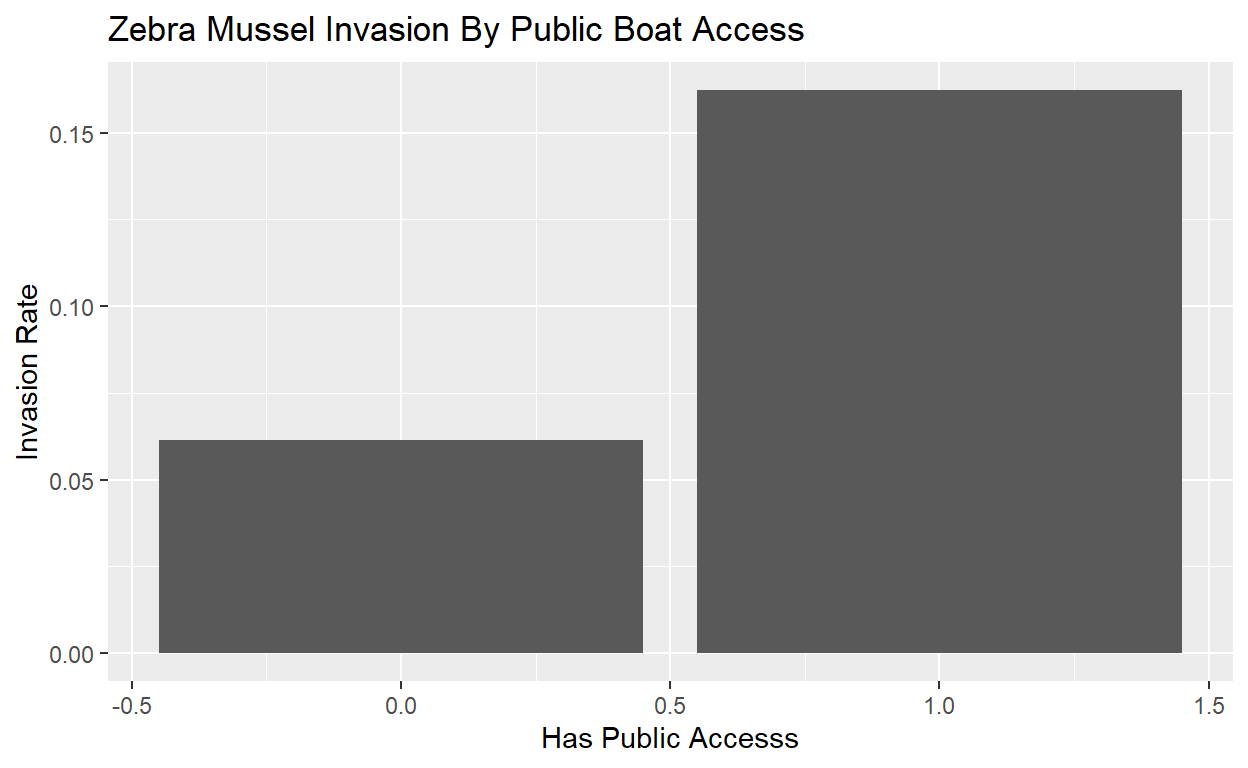
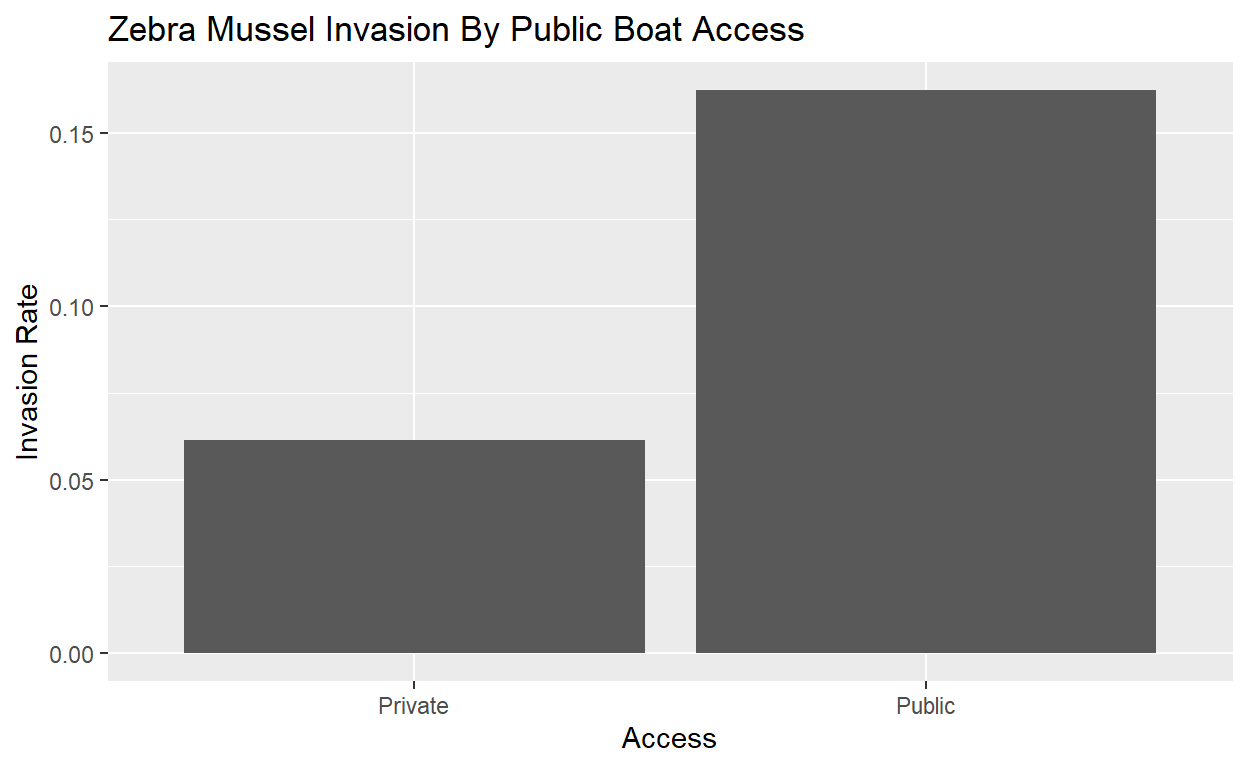
fixed messy titles on first graph

diff --git a/index.html b/index.html
@@ -1693,17 +1693,18 @@ code span.wa { color: #5e5e5e; font-style: italic; } /* Warning */
 <pre class="sourceCode r"><code class="sourceCode r"><span><span class='va'>lake_data</span> <span class='op'>|&gt;</span></span>
 <span>  <span class='fu'><a href='https://dplyr.tidyverse.org/reference/group_by.html'>group_by</a></span><span class='op'>(</span><span class='va'>has_public_access</span><span class='op'>)</span> <span class='op'>|&gt;</span></span>
 <span>  <span class='fu'><a href='https://dplyr.tidyverse.org/reference/summarise.html'>summarise</a></span><span class='op'>(</span>invasion_rate <span class='op'>=</span> <span class='fu'><a href='https://rdrr.io/r/base/mean.html'>mean</a></span><span class='op'>(</span><span class='va'>zebra_present</span>, na.rm <span class='op'>=</span> <span class='cn'>TRUE</span><span class='op'>)</span><span class='op'>)</span> <span class='op'>|&gt;</span></span>
-<span>  <span class='fu'><a href='https://ggplot2.tidyverse.org/reference/ggplot.html'>ggplot</a></span><span class='op'>(</span><span class='va'>lake_data</span>, mapping <span class='op'>=</span> <span class='fu'><a href='https://ggplot2.tidyverse.org/reference/aes.html'>aes</a></span><span class='op'>(</span>x<span class='op'>=</span> <span class='va'>has_public_access</span>, y <span class='op'>=</span> <span class='va'>invasion_rate</span><span class='op'>)</span><span class='op'>)</span> <span class='op'>+</span></span>
+<span>  <span class='fu'><a href='https://dplyr.tidyverse.org/reference/mutate.html'>mutate</a></span><span class='op'>(</span>access <span class='op'>=</span> <span class='fu'><a href='https://rdrr.io/r/base/ifelse.html'>ifelse</a></span><span class='op'>(</span><span class='va'>has_public_access</span> <span class='op'>==</span> <span class='fl'>1</span>, <span class='st'>"Public"</span>, <span class='st'>"Private"</span><span class='op'>)</span><span class='op'>)</span><span class='op'>|&gt;</span></span>
+<span>  <span class='fu'><a href='https://ggplot2.tidyverse.org/reference/ggplot.html'>ggplot</a></span><span class='op'>(</span><span class='va'>lake_data</span>, mapping <span class='op'>=</span> <span class='fu'><a href='https://ggplot2.tidyverse.org/reference/aes.html'>aes</a></span><span class='op'>(</span>x<span class='op'>=</span><span class='va'>access</span>, y <span class='op'>=</span> <span class='va'>invasion_rate</span><span class='op'>)</span><span class='op'>)</span> <span class='op'>+</span></span>
 <span>  <span class='fu'><a href='https://ggplot2.tidyverse.org/reference/geom_bar.html'>geom_col</a></span><span class='op'>(</span><span class='op'>)</span> <span class='op'>+</span> </span>
 <span>  <span class='fu'><a href='https://ggplot2.tidyverse.org/reference/labs.html'>labs</a></span><span class='op'>(</span></span>
-<span>    x <span class='op'>=</span> <span class='st'>"Has Public Accesss"</span>, </span>
+<span>    x <span class='op'>=</span> <span class='st'>"Access"</span>, </span>
 <span>    y <span class='op'>=</span> <span class='st'>"Invasion Rate"</span>,</span>
 <span>    title <span class='op'>=</span> <span class='st'>"Zebra Mussel Invasion By Public Boat Access"</span></span>
 <span>  <span class='op'>)</span></span></code></pre>
 </div>
 <p><img src="index_files/figure-html5/unnamed-chunk-10-1.png" alt="" width="624" /></p>
 </div>
-<h2 id="correlation-is-clear-so-lets-look-at-if-landingramp-types-have-an-effect-on-invasion-rates">Correlation is clear so let’s look at if landing/ramp types have an effect on invasion rates</h2>
+<h2 id="correlation-is-clear-so-next-lets-look-at-if-landingramp-types-have-an-effect-on-invasion-rates">Correlation is clear so next let’s look at if landing/ramp types have an effect on invasion rates</h2>
 <div class="layout-chunk" data-layout="l-body">
 
 </div>
